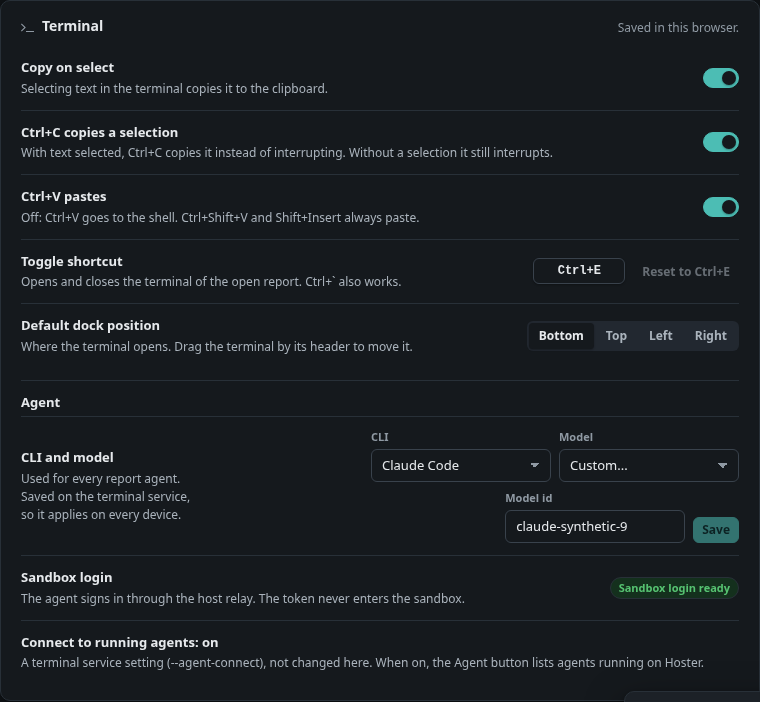
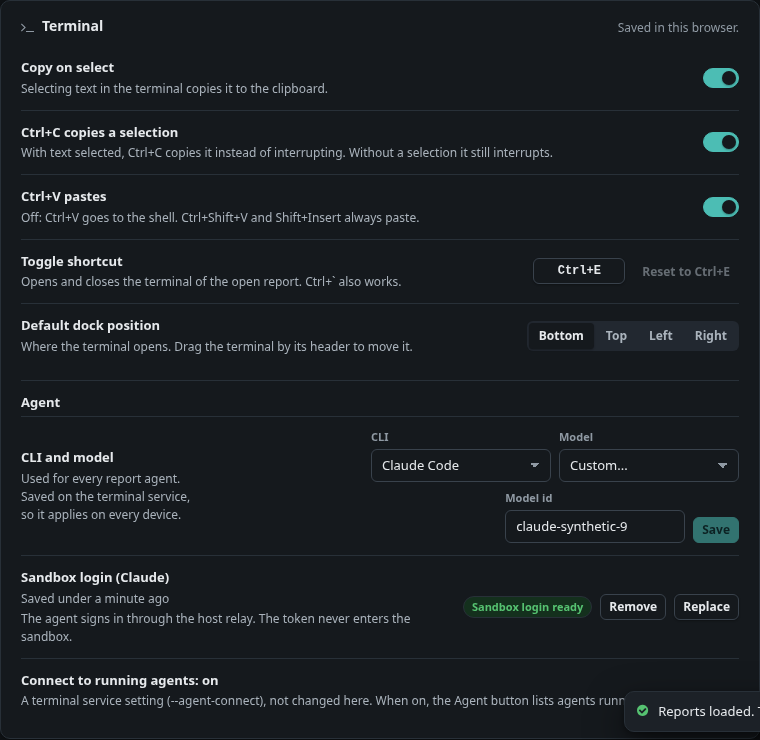
Report agent UI: sandbox login in Settings; running agents from any report; format chip plus optional note
Settings: "Sandbox login (Claude)" password field (autocomplete off, no spellcheck, not in a form)
saved through POST /api/agent/login and cleared after every Save; Saved <time> with Replace and
Remove (confirm dialog); the manual hint when the login is not editable. The Agent button is
disabled only when neither the report agent nor agent connect can be used: outside a finding
packet (or without a login) the popover shows only Running agents plus one muted reason line,
and the drawer may open on a connect tab there (Terminal tab disabled, no shell). A picked chip
turns the textarea into "Anything else? (optional)", sent as task.note.

diff --git a/static/modules/report-agent.js b/static/modules/report-agent.js
@@ -22,7 +22,8 @@
   const FORMAT_LABEL = Object.fromEntries(FORMATS);
   const LANG_RE = /^[A-Za-z0-9_+.#-]{0,32}$/;
   const CUSTOM_RE = /^[a-z0-9]([a-z0-9.-]{0,62}[a-z0-9])?$/;
-  const MAX_ASK = 8 * 1024, MAX_BLOCK = 64 * 1024;
+  const SETUP_TOKEN_RE = /^sk-ant-oat[A-Za-z0-9_-]{20,500}$/;   // same shape the service accepts
+  const MAX_ASK = 8 * 1024, MAX_NOTE = 2 * 1024, MAX_BLOCK = 64 * 1024;
   const STATE_LABEL = {starting: 'Starting', working: 'Working', waiting: 'Waiting for you', exited: 'Exited'};
   const LIVE = new Set(['starting', 'working', 'waiting']);
   const KIND_LABEL = {claude: 'Claude', omp: 'OMP', codex: 'Codex', opencode: 'OpenCode'};
@@ -115,6 +116,8 @@
     if (!config.login?.ready) return 'No sandbox login on Hoster yet.';
     return '';
   }
+  // Agent connect needs no sandbox: it works for any report while the service flag is on.
+  const connectAvailable = () => !!base && !configError && status?.agent_connect === true;
   const hasSession = () => session && session.state && session.state !== 'none';
   const running = () => LIVE.has(session?.state);
 
@@ -173,10 +176,13 @@
   function paintButton() {
     const button = document.querySelector('[data-agent-toggle]');
     if (!button) return;
-    const reason = hasSession() ? '' : unavailable();
+    const agentReason = unavailable();
+    // Disabled only when neither the report agent nor agent connect can be used here.
+    const reason = hasSession() || !agentReason || connectAvailable() ? '' : agentReason;
     const loading = !configError && !config && !!base;
     button.disabled = !!reason;
-    button.title = reason || (hasSession() ? `Agent: ${STATE_LABEL[session.state] || session.state}. Open the session.` : 'Report agent: change the PoC format or ask a question');
+    button.title = reason || (hasSession() ? `Agent: ${STATE_LABEL[session.state] || session.state}. Open the session.`
+      : agentReason ? `Running agents on Hoster. ${agentReason}` : 'Report agent: change the PoC format or ask a question');
     const reasonEl = document.querySelector('[data-agent-reason]');
     if (reasonEl) { reasonEl.textContent = loading ? '' : reason; reasonEl.hidden = loading || !reason; }
     const stateEl = button.querySelector('[data-agent-state]');
@@ -259,7 +265,10 @@
       hasSession() ? statePill(session.state) : null);
     const parts = [head];
     if (hasSession()) parts.push(liveSection());
-    if (!live) parts.push(startForm());
+    // Without a usable report agent (outside a finding folder, no login, feature off) the
+    // popover offers only the running agents, with one muted line saying why.
+    const startReason = unavailable();
+    if (!live) parts.push(startReason ? h('p', {className: 'hint ra-start-off', dataset: {agentStartOff: ''}, text: startReason}) : startForm());
     parts.push(connectSection());
     pop.replaceChildren(...parts);
     paintConnect();
@@ -291,15 +300,24 @@
     const chips = h('div', {className: 'ra-chips', role: 'group', 'aria-label': 'Change PoC format'},
       FORMATS.map(([id, label]) => h('button', {type: 'button', className: 'ra-chip', dataset: {agentFormat: id}, 'aria-pressed': String(form.format === id),
         onclick: () => { form.format = form.format === id ? null : id; form.error = ''; syncChips(); paintHint(); }}, label)));
-    const syncChips = () => chips.querySelectorAll('[data-agent-format]').forEach(b => b.setAttribute('aria-pressed', String(b.dataset.agentFormat === form.format)));
-    const area = h('textarea', {name: 'agent-ask', className: 'ra-ask', rows: 3, placeholder: 'Ask the agent...', 'aria-label': 'Ask the agent', value: form.text,
-      oninput: event => { form.text = event.target.value; form.error = ''; if (form.format) { form.format = null; syncChips(); } paintHint(); }});
+    // With a chip picked the textarea holds optional extra instructions (sent as task.note);
+    // without one it is the ask box.
+    const areaLabel = h('div', {className: 'ra-label', dataset: {agentAreaLabel: ''}});
+    const area = h('textarea', {name: 'agent-ask', className: 'ra-ask', rows: 3, value: form.text,
+      oninput: event => { form.text = event.target.value; form.error = ''; paintHint(); }});
+    const syncChips = () => {
+      chips.querySelectorAll('[data-agent-format]').forEach(b => b.setAttribute('aria-pressed', String(b.dataset.agentFormat === form.format)));
+      areaLabel.textContent = form.format ? 'Anything else? (optional)' : 'Or ask the agent';
+      area.placeholder = form.format ? 'Anything else? (optional)' : 'Ask the agent...';
+      area.setAttribute('aria-label', form.format ? 'Extra instructions for the format change (optional)' : 'Ask the agent');
+    };
+    syncChips();
     const fields = modelFields(form, quiet => { form.error = ''; if (quiet) paintHint(); else paintPopover(); }, 'agent');
     const hint = h('p', {className: 'hint ra-hint', dataset: {agentHint: ''}, role: 'status', 'aria-live': 'polite'});
     const start = h('button', {type: 'button', className: 'button primary sm', dataset: {agentAction: 'start'}, onclick: () => startFromForm()}, icon('play'), ' Start');
     const wrap = h('div', {className: 'ra-form'},
       h('div', {className: 'ra-label', text: 'Change PoC format'}), chips,
-      h('div', {className: 'ra-label', text: 'Or ask the agent'}), area,
+      areaLabel, area,
       h('div', {className: 'ra-models'}, fields),
       hint,
       h('div', {className: 'ra-actions'}, h('span', {className: 'ra-where hint', text: 'Runs in this report\'s sandbox.'}), start));
@@ -317,8 +335,13 @@
   function formProblem() {
     const model = effectiveModel(form);
     if (model === null) return {ready: false, bad: true, text: 'Custom model ids use lowercase letters, digits, dots and dashes.'};
-    if (form.format) return {ready: true, bad: false, text: form.text.trim() ? 'A format change starts on its own. Ask your question in the Agent tab afterwards.' : ''};
     const text = form.text.replace(/\r\n?/g, '\n');
+    if (form.format) {
+      if (!text.trim()) return {ready: true, bad: false, text: ''};
+      if (unsafe(text)) return {ready: false, bad: true, text: UNSAFE_TEXT};
+      if (bytes(text) > MAX_NOTE) return {ready: false, bad: true, text: 'The extra instructions are too long (2 KiB at most).'};
+      return {ready: true, bad: false, text: 'Sent with the format change as your extra instructions.'};
+    }
     if (!text.trim()) return {ready: false, bad: false, text: 'Pick a format or type a question.'};
     if (unsafe(text)) return {ready: false, bad: true, text: UNSAFE_TEXT};
     if (bytes(text) > MAX_ASK) return {ready: false, bad: true, text: 'The question is too long (8 KiB at most).'};
@@ -364,7 +387,8 @@
   async function startFromForm() {
     const problem = formProblem();
     if (!problem.ready || problem.bad || form.busy) return;
-    const task = form.format ? {kind: 'poc_format', format: form.format} : {kind: 'ask', text: form.text.replace(/\r\n?/g, '\n')};
+    const text = form.text.replace(/\r\n?/g, '\n');
+    const task = !form.format ? {kind: 'ask', text} : text.trim() ? {kind: 'poc_format', format: form.format, note: text} : {kind: 'poc_format', format: form.format};
     form.busy = true; form.error = ''; paintPopover();
     const error = await start(task, overrides(form.cli, effectiveModel(form)));
     form.busy = false;
@@ -401,23 +425,23 @@
     window.BoardUI?.toast?.('Agent stopped. Its edits stay in the report folder.', 'success', {timeout: 4000});
   }
   // Same dialog as finding-actions.js confirmDialog(), through BoardLedgerActions.dialog.
-  function confirmStop() {
+  function confirmDialog({title, lines, confirm, id}) {
     const LA = window.BoardLedgerActions;
-    if (typeof LA?.dialog !== 'function') return Promise.resolve(window.confirm('Stop the agent?'));
+    if (typeof LA?.dialog !== 'function') return Promise.resolve(window.confirm(title));
     return new Promise(resolve => {
-      const node = LA.dialog('Stop the agent?', 'report-agent-stop-text');
+      const node = LA.dialog(title, `report-agent-${id}-text`);
       node.classList.add('ra-dialog');
       let answer = false;
-      const yes = h('button', {type: 'button', className: 'button danger-button', dataset: {agentConfirm: 'stop'}, text: 'Stop agent', onclick: () => { answer = true; node.close(); }});
+      const yes = h('button', {type: 'button', className: 'button danger-button', dataset: {agentConfirm: id}, text: confirm, onclick: () => { answer = true; node.close(); }});
       const no = h('button', {type: 'button', className: 'button subtle', text: 'Cancel', onclick: () => node.close()});
-      node.append(h('div', {id: 'report-agent-stop-text'},
-        h('p', {className: 'hint', text: 'The agent stops now, even in the middle of a step.'}),
-        h('p', {className: 'hint', text: 'Edits it already made stay in the report folder. The Agent tab closes.'})),
-      h('div', {className: 'ledger-dialog-actions'}, yes, no));
+      node.append(h('div', {id: `report-agent-${id}-text`}, lines.map(text => h('p', {className: 'hint', text}))),
+        h('div', {className: 'ledger-dialog-actions'}, yes, no));
       node.addEventListener('close', () => resolve(answer));
       node.showModal(); no.focus();
     });
   }
+  const confirmStop = () => confirmDialog({title: 'Stop the agent?', confirm: 'Stop agent', id: 'stop',
+    lines: ['The agent stops now, even in the middle of a step.', 'Edits it already made stay in the report folder. The Agent tab closes.']});
 
   // -- Agent tab (kind=agent) ------------------------------------------------------
   function ensureAgentTab() {
@@ -667,7 +691,7 @@
 
   // -- Settings: Agent section ------------------------------------------------------
   function renderSettings(host) {
-    const state = {cli: null, model: null, custom: '', saving: false, message: '', tone: ''};
+    const state = {cli: null, model: null, custom: '', saving: false, message: '', tone: '', replacing: false, loginBusy: false, loginMsg: '', loginTone: ''};
     let alive = true;
     const paint = () => {
       if (!alive) return;
@@ -689,11 +713,7 @@
           h('div', {className: 'set-controls ra-set-controls'}, modelFields(state, quiet => { state.message = ''; if (quiet) paintSave(); else paint(); }, 'set-agent'), save)));
         parts.push(h('p', {className: `hint ra-set-msg${state.tone ? ` ${state.tone}` : ''}`, dataset: {agentSettingsMsg: ''}, role: 'status', 'aria-live': 'polite',
           text: state.message || (model === null ? 'Custom model ids use lowercase letters, digits, dots and dashes.' : '')}));
-        const login = config.login || {};
-        parts.push(h('div', {className: 'set-row'},
-          h('div', {className: 'set-text'}, h('span', {className: 'set-label', text: 'Sandbox login'}),
-            login.ready ? h('p', {className: 'hint', text: 'The agent signs in through the host relay. The token never enters the sandbox.'}) : h('p', {className: 'hint', dataset: {agentLoginHint: ''}, text: LOGIN_HINT})),
-          h('span', {className: `badge ${login.ready ? 'success' : 'warning'}`, dataset: {agentLogin: login.ready ? 'ready' : 'missing'}, text: login.ready ? 'Sandbox login ready' : 'No sandbox login on Hoster yet'})));
+        parts.push(...loginRow());
       }
       const connectOn = status ? !!status.agent_connect : null;
       parts.push(h('div', {className: 'set-row'},
@@ -701,6 +721,77 @@
           h('p', {className: 'hint', text: 'A terminal service setting (--agent-connect), not changed here. When on, the Agent button lists agents running on Hoster.'}))));
       host.replaceChildren(...parts);
     };
+    // "Sandbox login (Claude)": saved on Hoster through POST /api/agent/login. The token
+    // lives only in the password field until Save, which clears it whatever happens.
+    function loginRow() {
+      const login = config.login || {};
+      const pill = h('span', {className: `badge ${login.ready ? 'success' : 'warning'}`, dataset: {agentLogin: login.ready ? 'ready' : 'missing'},
+        text: login.ready ? 'Sandbox login ready' : 'No sandbox login on Hoster yet'});
+      if (!login.editable) {
+        return [h('div', {className: 'set-row'},
+          h('div', {className: 'set-text'}, h('span', {className: 'set-label', text: 'Sandbox login'}),
+            login.ready ? h('p', {className: 'hint', text: 'The agent signs in through the host relay. The token never enters the sandbox.'}) : h('p', {className: 'hint', dataset: {agentLoginHint: ''}, text: LOGIN_HINT})),
+          pill)];
+      }
+      const text = [h('span', {className: 'set-label', text: 'Sandbox login (Claude)'})];
+      let controls;
+      if (login.ready && !state.replacing) {
+        if (login.saved_at) text.push(h('p', {className: 'hint', dataset: {agentLoginSaved: ''}, text: `Saved ${ago(login.saved_at)}`}));
+        text.push(h('p', {className: 'hint', text: 'The agent signs in through the host relay. The token never enters the sandbox.'}));
+        controls = [pill,
+          h('button', {type: 'button', className: 'button sm subtle', dataset: {agentLoginAction: 'remove'}, disabled: state.loginBusy, onclick: removeLogin}, 'Remove'),
+          h('button', {type: 'button', className: 'button sm', dataset: {agentLoginAction: 'replace'}, disabled: state.loginBusy,
+            onclick: () => { state.replacing = true; state.loginMsg = ''; paint(); host.querySelector('input[name="set-agent-token"]')?.focus(); }}, 'Replace')];
+      } else {
+        if (!state.replacing) text.push(h('div', {className: 'ra-login-status'}, pill));
+        text.push(h('p', {className: 'hint', dataset: {agentLoginHelp: ''}, text: 'Run claude setup-token on Hoster and paste the token here. It is stored on Hoster only, readable by the Board\'s user.'}));
+        const input = h('input', {type: 'password', name: 'set-agent-token', className: 'ra-token', autocomplete: 'off', spellcheck: 'false',
+          autocapitalize: 'off', placeholder: 'sk-ant-oat...', 'aria-label': 'Claude setup token', disabled: state.loginBusy,
+          onkeydown: event => { if (event.key === 'Enter') { event.preventDefault(); saveLogin(); } }});
+        input.spellcheck = false;
+        controls = [
+          state.replacing ? h('button', {type: 'button', className: 'button sm ghost', dataset: {agentLoginAction: 'cancel'}, onclick: () => { state.replacing = false; state.loginMsg = ''; paint(); }}, 'Cancel') : null,
+          input,
+          h('button', {type: 'button', className: 'button sm primary', dataset: {agentLoginAction: 'save'}, disabled: state.loginBusy, onclick: saveLogin}, state.loginBusy ? 'Saving' : 'Save')];
+      }
+      const problem = !login.ready && login.reason && login.reason !== 'missing' ? login.message : '';
+      return [h('div', {className: 'set-row ra-login-row', dataset: {agentLoginRow: ''}},
+        h('div', {className: 'set-text'}, text), h('div', {className: 'set-controls ra-login-controls'}, controls)),
+      h('p', {className: `hint ra-set-msg${state.loginTone ? ` ${state.loginTone}` : ''}`, dataset: {agentLoginMsg: ''}, role: 'status', 'aria-live': 'polite', text: state.loginMsg || problem || ''})];
+    }
+    async function saveLogin() {
+      const input = host.querySelector('input[name="set-agent-token"]');
+      if (!input || state.loginBusy) return;
+      let value = input.value.trim();
+      input.value = '';
+      if (!value) { state.loginMsg = 'Paste the token first.'; state.loginTone = 'ra-error'; paint(); return; }
+      if (!SETUP_TOKEN_RE.test(value)) {
+        value = '';
+        state.loginMsg = 'That is not a Claude setup token. Run claude setup-token on Hoster and paste the whole token.'; state.loginTone = 'ra-error'; paint(); return;
+      }
+      state.loginBusy = true; state.loginMsg = ''; paint();
+      try {
+        const result = await api('api/agent/login', {cli: 'claude', token: value});
+        config = {...config, login: result.login}; configAt = Date.now();
+        state.replacing = false; state.loginMsg = 'Saved on Hoster.'; state.loginTone = '';
+      } catch (error) { state.loginMsg = `Not saved: ${error.message}`; state.loginTone = 'ra-error'; }
+      value = '';
+      state.loginBusy = false;
+      paint(); paintButton(); BT()?.refreshBlocks?.();
+    }
+    async function removeLogin() {
+      const ok = await confirmDialog({title: 'Remove the sandbox login?', confirm: 'Remove login', id: 'logout',
+        lines: ['The report agent cannot start until a new login is saved.', 'A running agent loses access to the model at its next call.']});
+      if (!ok) return;
+      state.loginBusy = true; paint();
+      try {
+        const result = await api('api/agent/logout', {cli: 'claude'});
+        config = {...config, login: result.login}; configAt = Date.now();
+        state.loginMsg = 'Login removed.'; state.loginTone = '';
+      } catch (error) { state.loginMsg = `Not removed: ${error.message}`; state.loginTone = 'ra-error'; }
+      state.loginBusy = false;
+      paint(); paintButton(); BT()?.refreshBlocks?.();
+    }
     const paintSave = () => {
       const model = effectiveModel(state);
       const button = host.querySelector('[data-agent-save]');

diff --git a/static/modules/sandbox-terminal.js b/static/modules/sandbox-terminal.js
@@ -392,7 +392,7 @@
 
   async function connect() {
     clearTimeout(connectTimer); connectTimer = null;
-    if (!sel || !prefs.open || !drawer || drawer.hidden) return;
+    if (!sel || !prefs.open || !drawer || drawer.hidden || blocked()) return;
     // The shell attaches once its tab is shown (a drawer opened on an Agent or
     // connect tab does not start a shell viewer until Terminal is picked).
     if (activeTab === 'terminal') shellWanted = true;
@@ -745,9 +745,12 @@
   // Opening focuses the terminal; closing returns focus to where it was before
   // opening (if that element still exists), else to the report editor.
   let returnFocus = null, wantFocus = false;
-  function toggle(force) {
-    if (!sel || (blocked() && force !== false)) return;
+  // allowBlocked: a registered tab (agent connect) may open the drawer for a report
+  // outside a finding folder; the shell itself never attaches there.
+  function toggle(force, allowBlocked) {
+    if (!sel) return;
     const next = force === undefined ? !prefs.open : force;
+    if (next && blocked() && !allowBlocked) return;
     if (next && !prefs.open) {
       const active = document.activeElement;
       returnFocus = active && active !== document.body && !drawer?.contains(active) ? active : null;
@@ -903,8 +906,11 @@
     tab.el?.remove();
     tabs.delete(id);
     delete notes[id];
-    if (activeTab === id) selectTab('terminal');
-    else paintTabs();
+    if (activeTab !== id) { paintTabs(); return; }
+    // Outside a finding folder there is no shell: show another tab, or close the drawer.
+    const next = blocked() ? [...tabs.keys()][0] : 'terminal';
+    if (next) selectTab(next);
+    else { activeTab = 'terminal'; paintTabs(); toggle(false); }
   }
   function clearTabs() {
     for (const id of [...tabs.keys()]) { const tab = tabs.get(id); detachTab(tab); tab.el?.remove(); tabs.delete(id); delete notes[id]; }
@@ -963,10 +969,10 @@
   }
   // Opens the drawer (if the report has a terminal) on that tab and focuses it.
   function openTab(id) {
-    if (!sel || blocked() || (id !== 'terminal' && !tabs.has(id))) return false;
+    if (!sel || (id === 'terminal' ? blocked() : !tabs.has(id))) return false;
     if (!drawer || drawer.hidden || !prefs.open) {
       activeTab = id;   // showDrawer attaches the active tab
-      toggle(true);
+      toggle(true, id !== 'terminal');
     }
     selectTab(id);
     focusActive();
@@ -995,6 +1001,7 @@
       button.tabIndex = tab.id === activeTab ? 0 : -1;
       button.dataset.termTabSelect = tab.id;
       if (tab.title) button.title = tab.title;
+      if (tab.id === 'terminal' && blocked()) { button.disabled = true; button.title = mount.message; }
       if (tab.status && tab.status.state !== 'idle') {
         const dot = document.createElement('span');
         dot.className = 'term-tab-dot';
@@ -1182,7 +1189,7 @@
     if (!base || !isToggleKey(event) || event.target?.closest?.('[data-shortcut-recorder]')) return;
     event.preventDefault();
     event.stopPropagation();
-    if (!event.repeat && sel && !blocked()) toggle();
+    if (!event.repeat && sel && (!blocked() || (drawer && !drawer.hidden))) toggle();
   }, true);
   window.addEventListener('focus', () => { if (sel) loadChecks(); });
 
@@ -1220,7 +1227,7 @@
       button.title = message || `Sandbox terminal (${shortcutText()})`;
     });
     document.querySelectorAll('[data-term-reason]').forEach(el => { el.textContent = message; el.hidden = !message; });
-    if (message && drawer && !drawer.hidden) showDrawer(false);
+    if (message && drawer && !drawer.hidden && activeTab === 'terminal') showDrawer(false);
     else if (!message && prefs.open && drawer?.hidden && sel) showDrawer(true);
   }
   async function loadMount() {

diff --git a/static/modules/report-agent.css b/static/modules/report-agent.css
@@ -72,3 +72,8 @@
   .ra-set-controls{max-width:none;justify-content:flex-start}
   .ra-set-msg{text-align:left}
 }
+/* Sandbox login row: password field, then Save (rightmost). */
+.ra-login-controls{flex-wrap:wrap;justify-content:flex-end;max-width:520px}
+.ra-token{width:260px;max-width:100%;font-family:var(--font-mono);font-size:var(--text-sm)}
+.ra-start-off{margin:var(--space-2) 0 0}
+.ra-login-status{margin:4px 0 2px}

diff --git a/tests/report_agent_browser_fixture.py b/tests/report_agent_browser_fixture.py
@@ -10,6 +10,7 @@ MODE is a comma list (always tailnet identity):
   noconnect  the service runs without --agent-connect
   down       the Board has --terminal-url but no terminal service answers
   nolive     the Board runs without live editing (the non-live report view)
+  notokenflag  the service runs without --report-agent-token-file (login not editable)
 
 The service runs in this process with the TEST-ONLY local backend, the fake CLI
 (tests/fake_agent_cli.py) as "claude", a fake TLS model upstream (never
@@ -79,7 +80,7 @@ def main():
         upstream = fu.FakeUpstream(cert, key)
         if 'agentoff' not in modes:
             hub = ra.ReportAgentHub(enabled=True, root=root, state_dir=target / 'term-state', clis={'claude': str(FAKE_CLI)},
-                                    token_file=token, relay_upstream=('127.0.0.1', upstream.port),
+                                    token_file=None if 'notokenflag' in modes else token, relay_upstream=('127.0.0.1', upstream.port),
                                     relay_ssl_context=fu.client_context(cert), stop_grace=1.0)
         if 'noconnect' not in modes:
             env = {'PATH': os.environ.get('PATH', '/usr/bin:/bin'), 'FAKE_HERDR_STATE': str(herdr_state),
